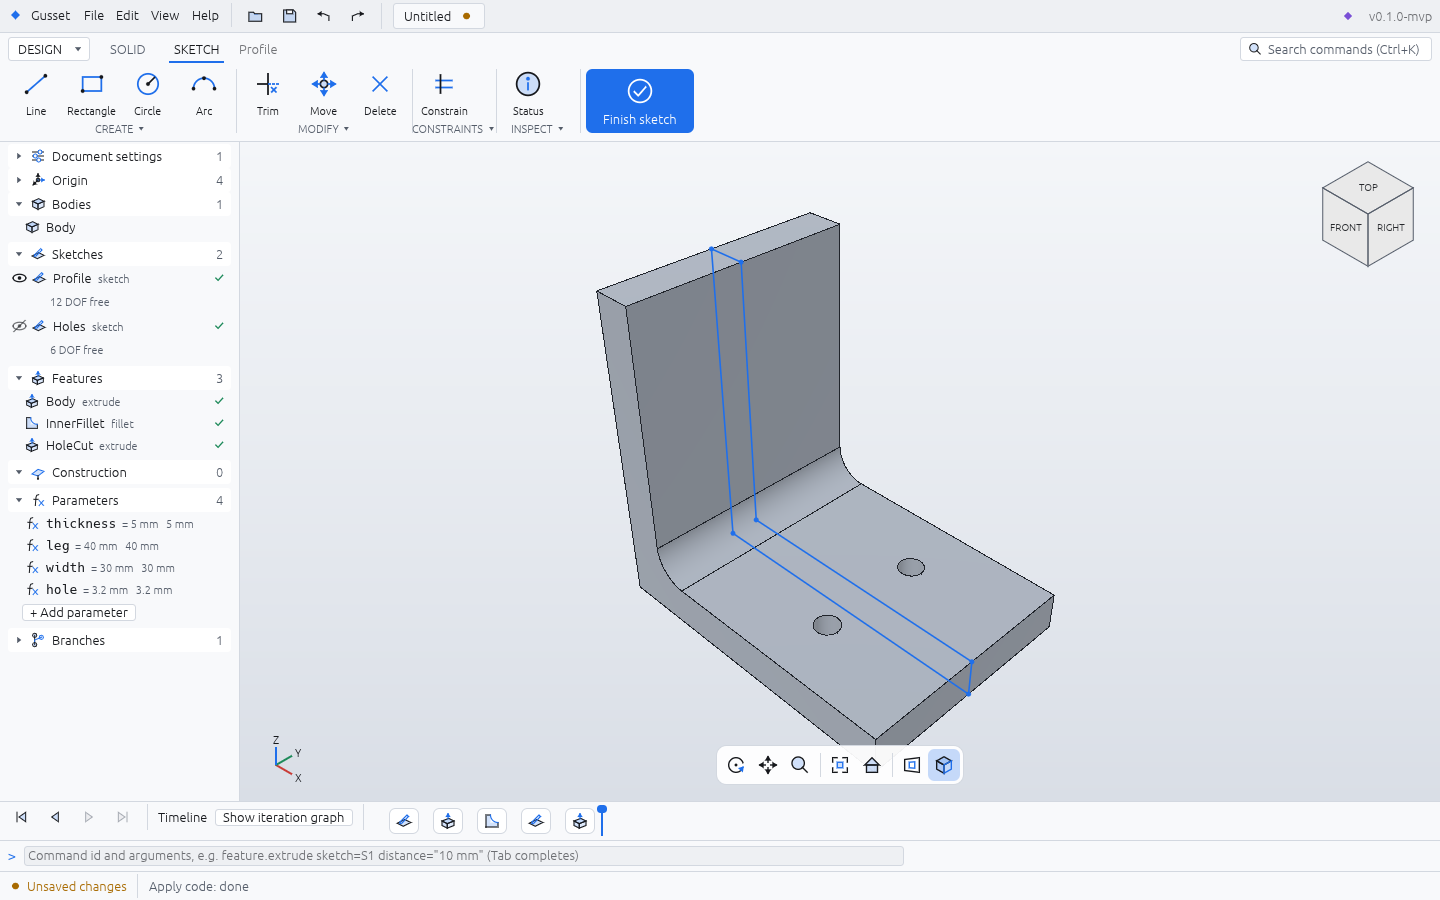
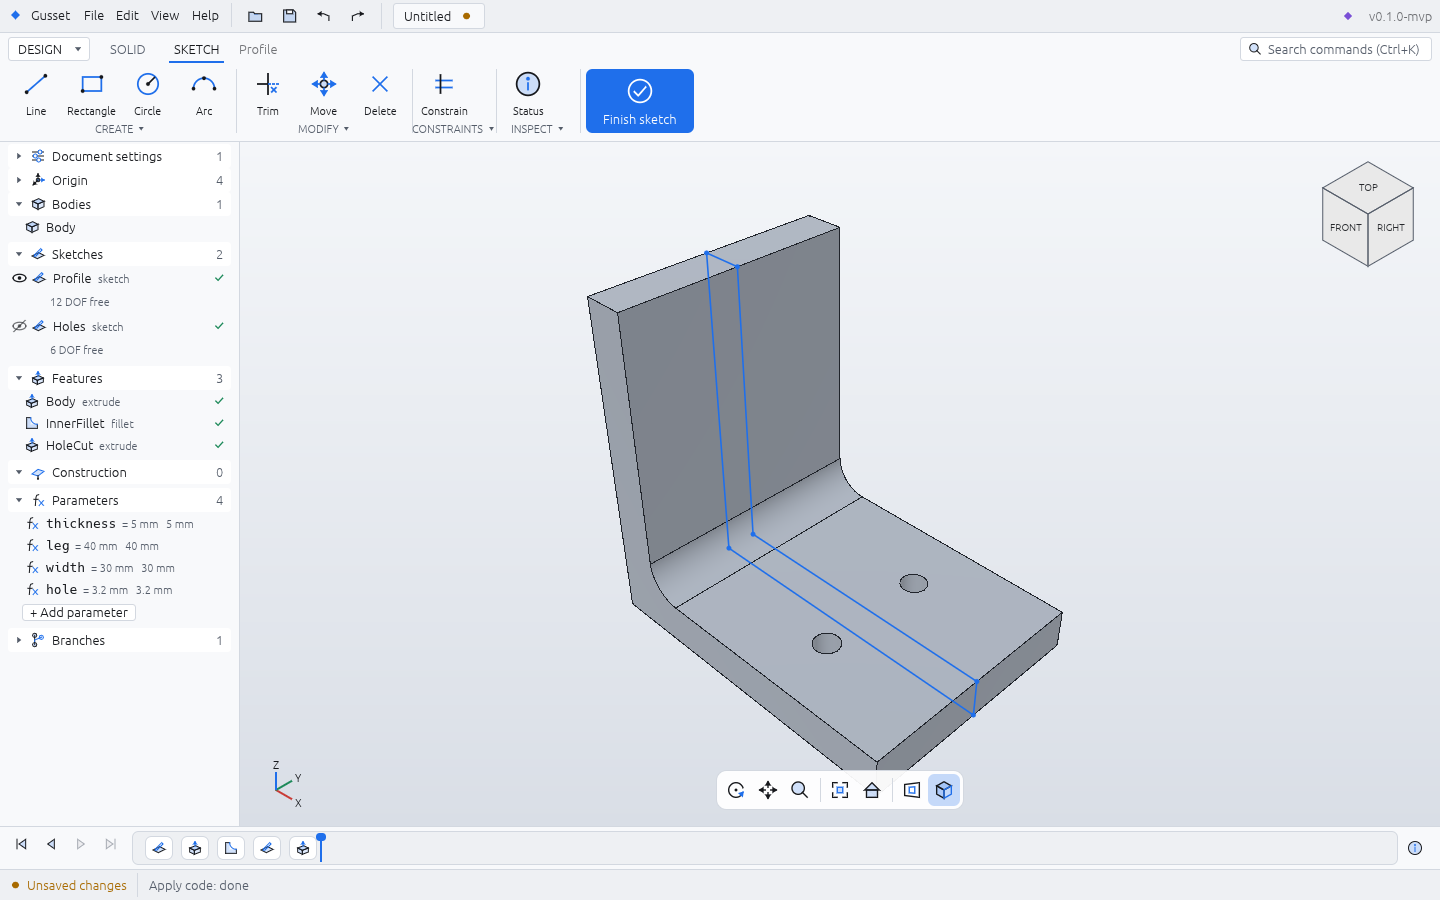
fix(app): tidy the bottom of the window (timeline bar, command line, status bar)
The timeline is one bar: playback controls, the feature chips packed in a
recessed track that keeps the newest in view, and the iteration-graph toggle as
an icon button at the right end (no stray label and text button). The command
line is hidden by default (View menu or Ctrl+Shift+K) and uses the full width
when shown. Confirmations in the status bar fade after 5 s; errors stay.

Claude-Session: https://claude.ai/code/session_01DSjXuzSVUbVM2N9dfBB73Z

Changed region(s): [[0.0, 0.2489, 1.0, 0.9956], [0.5625, 0.4978, 0.6875, 0.6533], [0.6875, 0.6222, 0.7188, 0.6533]]

diff --git a/crates/gusset-app/src/app.rs b/crates/gusset-app/src/app.rs
@@ -99,6 +99,9 @@ pub struct Notice {
     pub error: bool,
 }
 
+/// How long a confirmation stays in the status bar.
+const NOTICE_SECONDS: f64 = 5.0;
+
 /// What to do with the result of a command the GUI sent.
 #[derive(Debug, Clone, PartialEq, Eq)]
 pub enum Then {
@@ -261,6 +264,8 @@ pub struct App {
     pub browser: browser::State,
     /// The command line above the status bar.
     pub cmdline: cmdline::State,
+    /// The success notice on show and when it appeared (UI time): it fades after a while.
+    notice_since: Option<(String, f64)>,
     /// The MCP server, its HTTP endpoint, approvals and the "AI agents" panel.
     pub agents: Agents,
 }
@@ -329,6 +334,7 @@ impl App {
             sketch_visibility: std::collections::BTreeMap::new(),
             browser: browser::State::default(),
             cmdline: cmdline::State::default(),
+            notice_since: None,
             agents,
         }
     }
@@ -1104,11 +1110,18 @@ impl App {
             .show_separator_line(false)
             .show(ui, |ui| self.workspace_tabs(ui));
         egui::Panel::top("ribbon").frame(bar(pal.bg_panel, 2, 4)).show(ui, |ui| self.ribbon(ui));
-        egui::Panel::bottom("status").show(ui, |ui| self.status_bar(ui));
+        // Bottom, from the edge up: status bar, command line (when shown), timeline.
+        egui::Panel::bottom("status").frame(bar(pal.bg_app, 3, 3)).show(ui, |ui| self.status_bar(ui));
         if self.cmdline.visible {
-            egui::Panel::bottom("cmdline").frame(bar(pal.bg_panel, 3, 3)).show(ui, |ui| self.command_line(ui));
+            egui::Panel::bottom("cmdline")
+                .frame(bar(pal.bg_panel, 4, 4))
+                .show_separator_line(false)
+                .show(ui, |ui| self.command_line(ui));
         }
-        egui::Panel::bottom("timeline").resizable(false).show(ui, |ui| self.timeline(ui));
+        egui::Panel::bottom("timeline")
+            .resizable(false)
+            .frame(bar(pal.bg_panel, 4, 4))
+            .show(ui, |ui| self.timeline(ui));
         egui::Panel::left("browser")
             .default_size(240.0)
             .min_size(200.0)
@@ -1143,6 +1156,11 @@ impl App {
     fn shortcuts(&mut self, ctx: &egui::Context) {
         use egui::{Key, KeyboardShortcut, Modifiers};
         let sc = |m, k| KeyboardShortcut::new(m, k);
+        // Ctrl+Shift+K shows the command line and puts the cursor in it.
+        if ctx.input_mut(|i| i.consume_shortcut(&sc(Modifiers::COMMAND | Modifiers::SHIFT, Key::K))) {
+            self.cmdline.visible = true;
+            self.cmdline.focus = true;
+        }
         if ctx.input_mut(|i| i.consume_shortcut(&sc(Modifiers::COMMAND, Key::K))) {
             self.palette = Some(String::new());
         }
@@ -1481,6 +1499,27 @@ impl App {
             if self.snapshot.audit_total > 0 || self.agent_changes > 0 {
                 icons::labeled(ui, Icon::Diamond, pal.agent, tr("status.agent"));
             }
+            // Confirmations ("saved", "done") go away after a few seconds; errors stay.
+            let now = ui.input(|i| i.time);
+            match &self.notice {
+                Some(n) if !n.error => match &self.notice_since {
+                    Some((text, t)) if *text == n.text => {
+                        if now - t > NOTICE_SECONDS {
+                            self.notice = None;
+                            self.notice_since = None;
+                        } else {
+                            ui.ctx().request_repaint_after(std::time::Duration::from_secs_f64(
+                                NOTICE_SECONDS + 0.1 - (now - t),
+                            ));
+                        }
+                    }
+                    _ => {
+                        self.notice_since = Some((n.text.clone(), now));
+                        ui.ctx().request_repaint_after(std::time::Duration::from_secs_f64(NOTICE_SECONDS + 0.1));
+                    }
+                },
+                _ => self.notice_since = None,
+            }
             if let Some(n) = &self.notice {
                 ui.separator();
                 let col = if n.error { pal.danger } else { pal.text_muted };
@@ -1547,20 +1586,17 @@ impl App {
         let n = self.snapshot.doc.features.len();
         let rollback = self.snapshot.rollback;
         let pal = *theme::palette(self.theme);
+        // One bar: playback controls, the feature track, and the iteration-graph toggle at
+        // the right end (Fusion-style).
         ui.horizontal(|ui| {
+            ui.spacing_mut().item_spacing.x = theme::SPACE[2];
             // Playback moves the rollback marker one feature at a time.
             if let Some(m) = timeline::playback(ui, rollback.unwrap_or(n), n, &pal) {
                 self.set_rollback(if m >= n { None } else { Some(m) });
             }
-            ui.separator();
-            ui.label(RichText::new(tr("timeline.title")).strong());
-            if ui
-                .small_button(if self.show_iterations { tr("timeline.collapse") } else { tr("timeline.expand") })
-                .clicked()
-            {
-                self.show_iterations = !self.show_iterations;
-            }
-            ui.separator();
+            ui.add_space(theme::SPACE[2]);
+            let toggle_w = 26.0 + theme::SPACE[3];
+            let track_w = (ui.available_width() - toggle_w).max(80.0);
             let eval = self.scene.as_ref().map(|s| s.eval.clone());
             let doc = &self.snapshot.doc;
             let items: Vec<timeline::Item<'_>> = doc
@@ -1573,15 +1609,37 @@ impl App {
                     status: eval.as_ref().and_then(|e| e.status(&f.name)),
                 })
                 .collect();
-            if n == 0 {
-                ui.weak(tr("timeline.empty"));
-                return;
-            }
-            let moved = egui::ScrollArea::horizontal()
-                .show(ui, |ui| timeline::show(ui, &items, rollback.unwrap_or(n), &pal))
+            let track = egui::Frame::new()
+                .fill(pal.bg_app)
+                .stroke(egui::Stroke::new(1.0, pal.border))
+                .corner_radius(theme::RADIUS_MD)
+                .inner_margin(egui::Margin::symmetric(4, 0));
+            let moved = track
+                .show(ui, |ui| {
+                    ui.set_width(track_w - 10.0);
+                    ui.set_height(timeline::TRACK_H);
+                    if n == 0 {
+                        ui.centered_and_justified(|ui| ui.weak(tr("timeline.empty")));
+                        return None;
+                    }
+                    egui::ScrollArea::horizontal()
+                        .stick_to_right(true)
+                        .show(ui, |ui| timeline::show(ui, &items, rollback.unwrap_or(n), &pal))
+                        .inner
+                })
                 .inner;
             if let Some(m) = moved {
                 self.set_rollback(if m >= n { None } else { Some(m) });
+            }
+            let label = if self.show_iterations { tr("timeline.collapse") } else { tr("timeline.expand") };
+            let on = self.show_iterations;
+            let ink = icons::Ink::new(&pal);
+            if crate::ribbon::icon_button_with(ui, &pal, label, Some(on), |p, r| {
+                icons::paint_tool(p, r.shrink(5.0), icons::Tool::Info, ink);
+            })
+            .clicked()
+            {
+                self.show_iterations = !on;
             }
         });
         if self.show_iterations {

diff --git a/crates/gusset-app/src/cmdline.rs b/crates/gusset-app/src/cmdline.rs
@@ -199,8 +199,9 @@ pub fn hint(input: &str) -> String {
     parts.join(" ")
 }
 
-/// The command line's state: whether it is shown, its text and the commands run before.
-#[derive(Debug, Clone)]
+/// The command line's state: whether it is shown (hidden by default: View menu or
+/// Ctrl+Shift+K), its text and the commands run before.
+#[derive(Debug, Clone, Default)]
 pub struct State {
     pub visible: bool,
     pub text: String,
@@ -210,12 +211,6 @@ pub struct State {
     recall: Option<usize>,
     /// Focus the text field on the next frame.
     pub focus: bool,
-}
-
-impl Default for State {
-    fn default() -> Self {
-        State { visible: true, text: String::new(), history: Vec::new(), recall: None, focus: false }
-    }
 }
 
 impl State {
@@ -285,7 +280,9 @@ pub fn show(ui: &mut Ui, st: &mut State, pal: &Palette) -> Option<String> {
                 set_cursor_to_end(ui, id, &st.text);
             }
         }
-        let hint_width = (ui.available_width() * 0.4).clamp(120.0, 520.0);
+        // The field takes the whole bar; the hint (when there is one) gets the right part.
+        let h = hint(&st.text);
+        let hint_width = if h.is_empty() { 0.0 } else { (ui.available_width() * 0.4).clamp(120.0, 520.0) };
         let edit = egui::TextEdit::singleline(&mut st.text)
             .id(id)
             .font(egui::TextStyle::Monospace)
@@ -307,7 +304,6 @@ pub fn show(ui: &mut Ui, st: &mut State, pal: &Palette) -> Option<String> {
             }
             r.request_focus();
         }
-        let h = hint(&st.text);
         if !h.is_empty() {
             ui.add(egui::Label::new(egui::RichText::new(h).monospace().small().color(pal.text_muted)).truncate());
         }

diff --git a/crates/gusset-app/src/timeline.rs b/crates/gusset-app/src/timeline.rs
@@ -184,10 +184,12 @@ pub fn playback(ui: &mut Ui, marker: usize, n: usize, pal: &Palette) -> Option<u
     result
 }
 
-const GAP: f32 = 14.0;
-const CHIP_H: f32 = 26.0;
-const CHIP_W: f32 = 30.0;
-const CHIP_ICON: f32 = 18.0;
+const GAP: f32 = 8.0;
+const CHIP_H: f32 = 24.0;
+const CHIP_W: f32 = 28.0;
+const CHIP_ICON: f32 = 16.0;
+/// Height of the track the chips sit in.
+pub const TRACK_H: f32 = CHIP_H + 8.0;
 
 /// Draws the strip. `marker` is the number of active features (`items.len()` = all).
 /// Returns the new marker when the user moved it (drag released, or a key press).
@@ -196,7 +198,7 @@ pub fn show(ui: &mut Ui, items: &[Item<'_>], marker: usize, pal: &Palette) -> Op
     let marker = marker.min(n);
     let id = ui.make_persistent_id("timeline-marker");
     // Gap centers (marker positions) and chip rects, left to right.
-    let height = CHIP_H + 2.0 * theme::SPACE[2];
+    let height = TRACK_H;
     let width = GAP * (n as f32 + 1.0) + CHIP_W * n as f32;
     let (strip, _) = ui.allocate_exact_size(Vec2::new(width, height), Sense::hover());
     let mut gaps = Vec::with_capacity(n + 1);

diff --git a/crates/gusset-app/src/tests_panels.rs b/crates/gusset-app/src/tests_panels.rs
@@ -167,6 +167,12 @@ fn playback_buttons_move_the_rollback_marker() {
 
 fn type_line(h: &mut Harness<'static, App>, line: &str) {
     let input = || egui::accesskit::Role::TextInput;
+    // Hidden by default; Ctrl+Shift+K shows it.
+    if !h.state().cmdline.visible {
+        h.key_press_modifiers(egui::Modifiers::COMMAND | egui::Modifiers::SHIFT, egui::Key::K);
+        h.run();
+        h.run();
+    }
     h.get_by_role(input()).focus();
     h.run();
     h.get_by_role(input()).type_text(line);
@@ -241,6 +247,14 @@ fn command_line_is_toggled_from_the_view_menu() {
     let input = egui::accesskit::Role::TextInput;
     let mut h = harness(app());
     h.run();
+    // Hidden by default, shown and hidden again from the View menu.
+    assert!(h.query_by_role(input).is_none());
+    h.get_by_label("View").click();
+    h.run();
+    h.get_by_label("Command line").click();
+    h.run();
+    h.run();
+    assert!(h.state().cmdline.visible);
     assert!(h.query_by_role(input).is_some());
     h.get_by_label("View").click();
     h.run();

diff --git a/docs/DESIGN.md b/docs/DESIGN.md
@@ -124,8 +124,9 @@ design system:
 │ ▸ Params   │                                                   │              │
 │ ▸ Branches │                                                   │              │
 ├────────────┴───────────────────────────────────────────────────┴──────────────┤
-│ › type a command, e.g. extrude {distance: 20} — or press S to search          │  command line
-│ ⏮ ◀ ▶ ⏭  [▱S1][⬆Ext1][◜Fil1]│ rollback marker              (expand ▴ graph)   │  timeline
+│ ⏮ ◀ ▶ ⏭ ╭[▱S1][⬆Ext1][◜Fil1]┃ rollback marker ─────────────────────────╮ (ⓘ) │  timeline
+│ › feature.extrude sketch=S1 distance="10 mm"            (only when shown)     │  command line
+│ ● Unsaved changes │ Building Fillet1 (3/12) [Stop] │ notices (fade)           │  status bar
 └───────────────────────────────────────────────────────────────────────────────┘
 ```
 - Title bar: app mark, open/save/undo/redo, the document tab(s), agent activity, version.
@@ -140,9 +141,13 @@ design system:
   Sketches (with DOF), Parameters, Branches; "show unused sketches" toggle.
 - Viewport: view cube (top right, clickable faces/edges/corners), navigation bar (bottom
   centre: orbit, pan, zoom, fit, home, view style, settings), axis triad.
-- Command line: typed commands with JSON-ish arguments, the same registry as MCP.
-- Timeline: playback controls, one icon per feature, rollback marker; expands into the
-  full iteration graph (branches, stars, colors).
+- Timeline: one bar: playback controls, the features as icon chips in a recessed track
+  (newest kept in view), rollback marker; the button at the right end expands the full
+  iteration graph (branches, stars, colors).
+- Command line: typed commands with key=value or JSON arguments, the same registry as
+  MCP. Hidden by default (View menu, Ctrl+Shift+K).
+- Status bar: saved state, rebuild progress with Stop, errors; confirmations fade after
+  5 s, errors stay.
 - Icons are code-drawn (no image assets) and themed with our tokens. Widgets adapted from
   SolidCraft keep its MIT/Apache attribution (ADR 0023).
 
